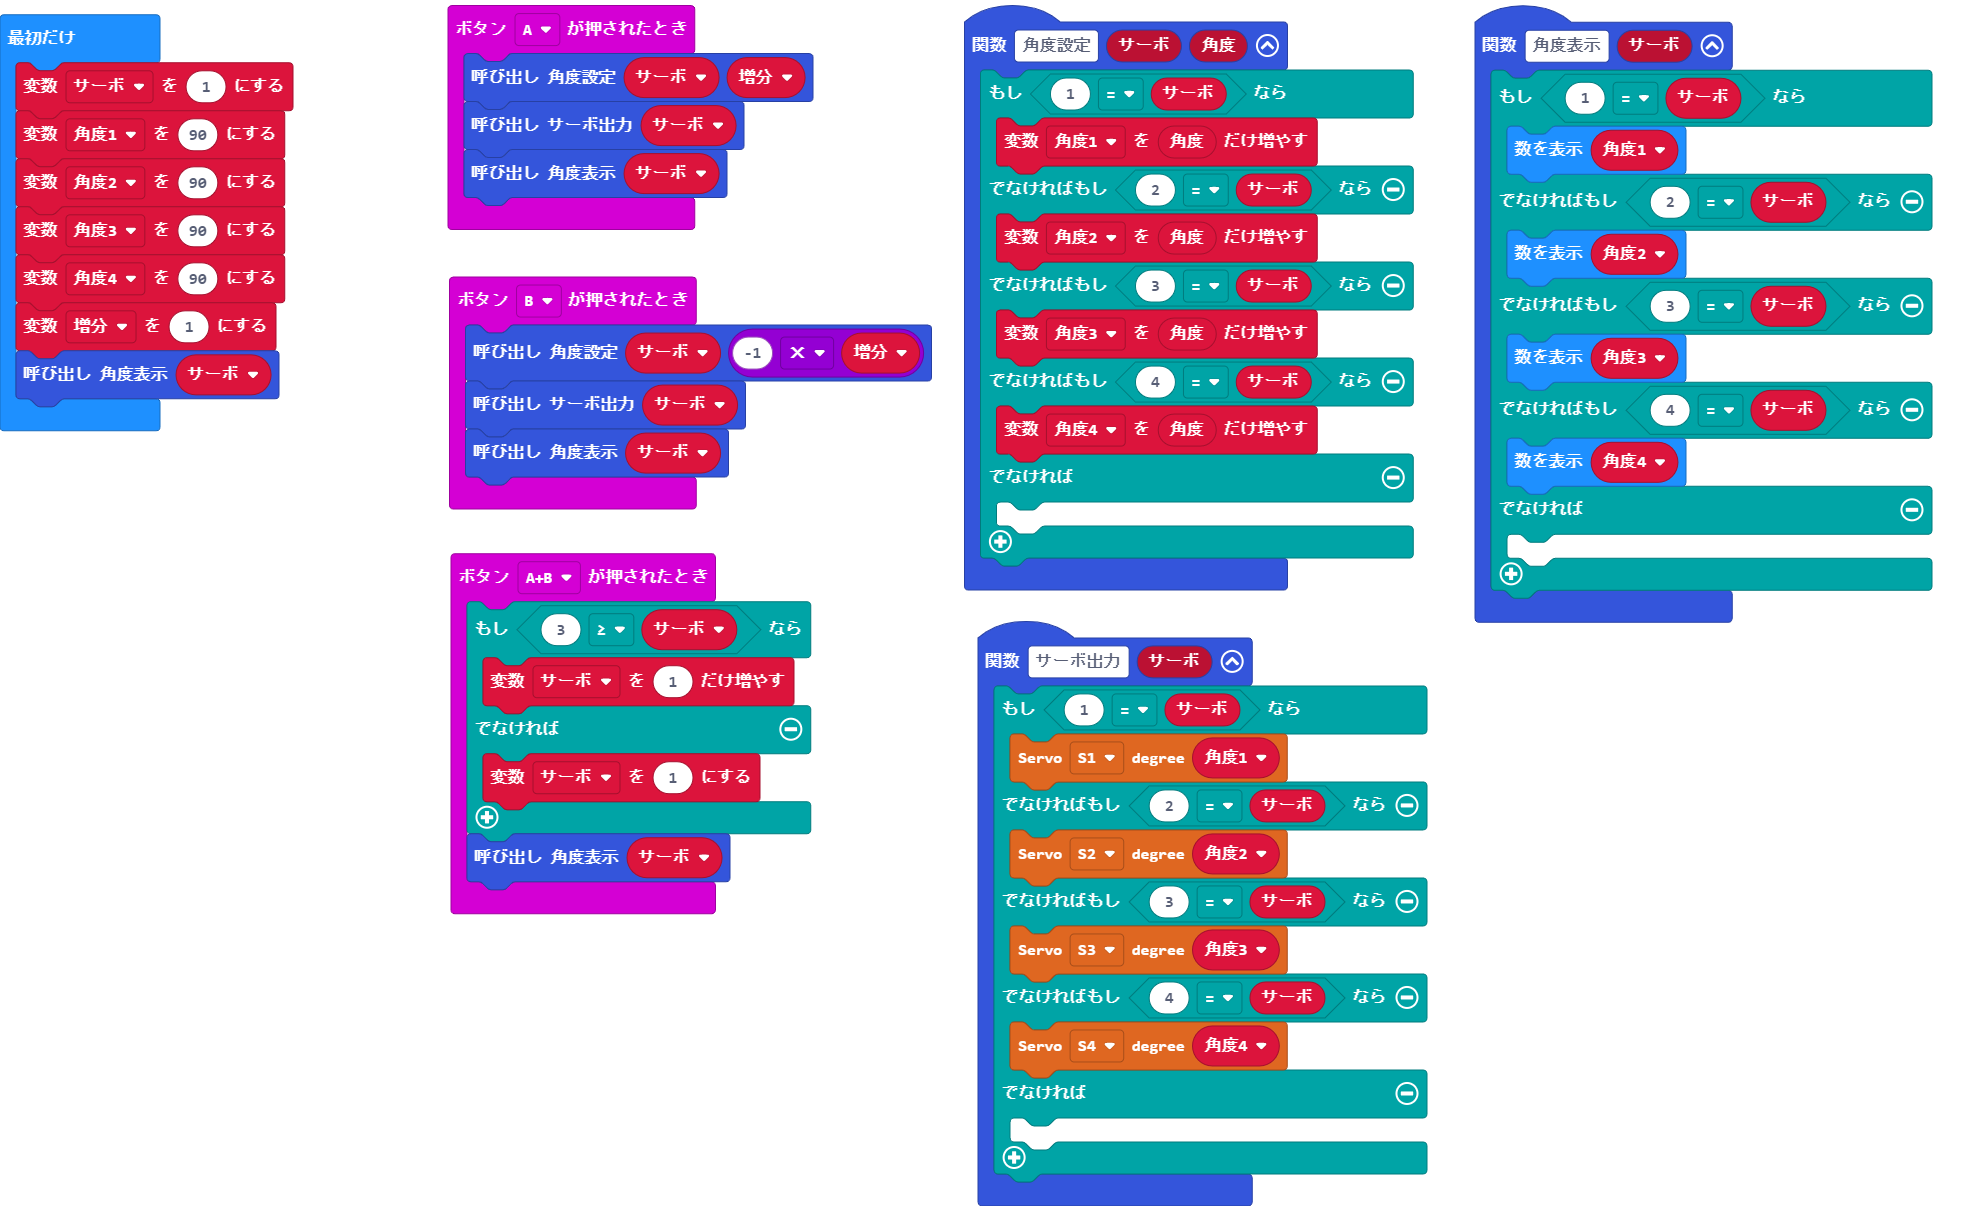
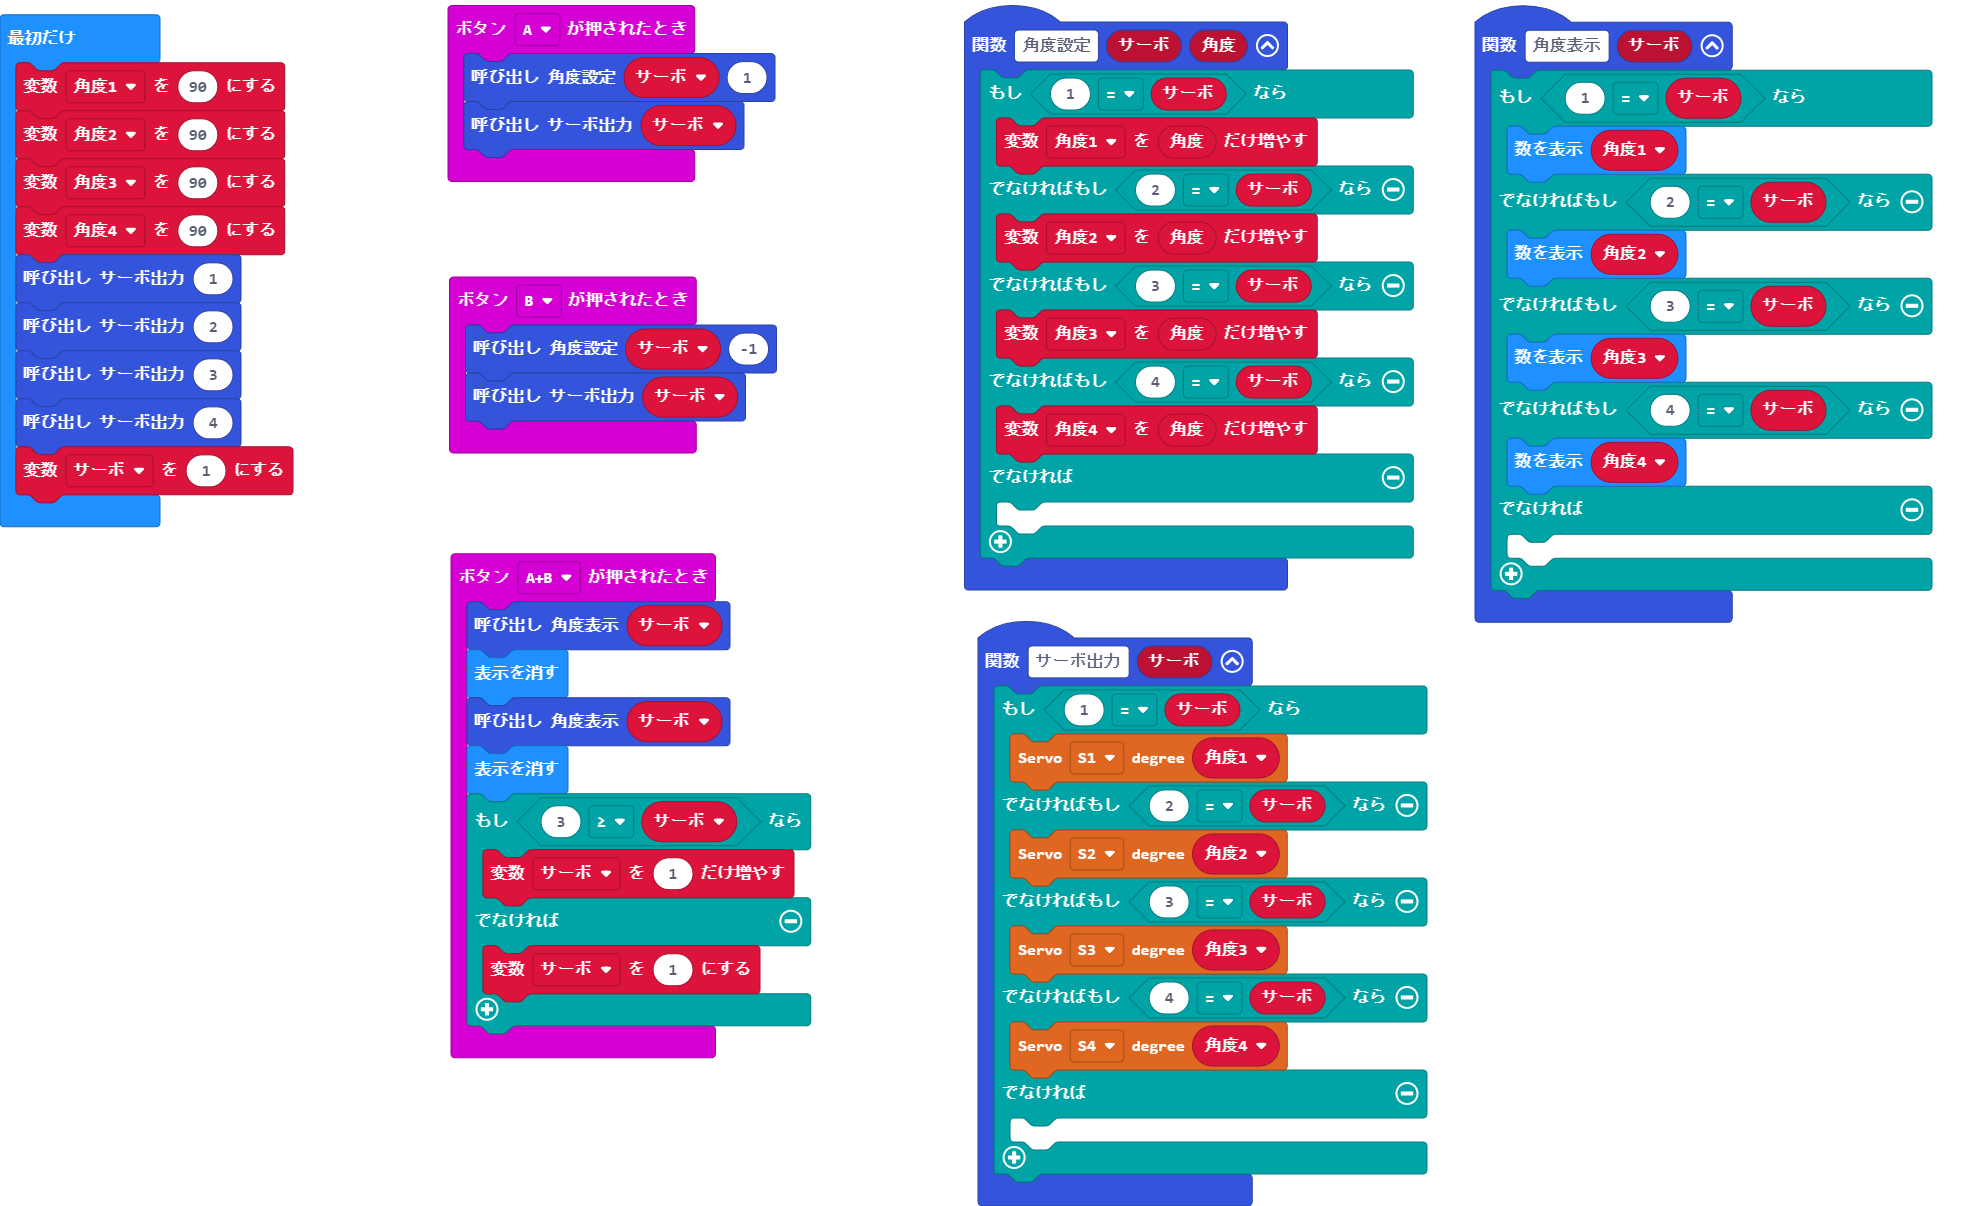
更新 pxt.json, main.blocks, main.ts

diff --git a/main.ts b/main.ts
@@ -25,9 +25,8 @@ function 角度設定 (サーボ: number, 角度: number) {
     }
 }
 input.onButtonPressed(Button.A, function () {
-    角度設定(サーボ, 増分)
+    角度設定(サーボ, 1)
     サーボ出力(サーボ)
-    角度表示(サーボ)
 })
 function サーボ出力 (サーボ: number) {
     if (1 == サーボ) {
@@ -43,28 +42,31 @@ function サーボ出力 (サーボ: number) {
     }
 }
 input.onButtonPressed(Button.AB, function () {
+    角度表示(サーボ)
+    basic.clearScreen()
+    角度表示(サーボ)
+    basic.clearScreen()
     if (3 >= サーボ) {
         サーボ += 1
     } else {
         サーボ = 1
     }
-    角度表示(サーボ)
 })
 input.onButtonPressed(Button.B, function () {
-    角度設定(サーボ, -1 * 増分)
+    角度設定(サーボ, -1)
     サーボ出力(サーボ)
-    角度表示(サーボ)
 })
-let 増分 = 0
+let サーボ = 0
 let 角度4 = 0
 let 角度3 = 0
 let 角度2 = 0
 let 角度1 = 0
-let サーボ = 0
-サーボ = 1
 角度1 = 90
 角度2 = 90
 角度3 = 90
 角度4 = 90
-増分 = 1
-角度表示(サーボ)
+サーボ出力(1)
+サーボ出力(2)
+サーボ出力(3)
+サーボ出力(4)
+サーボ = 1
